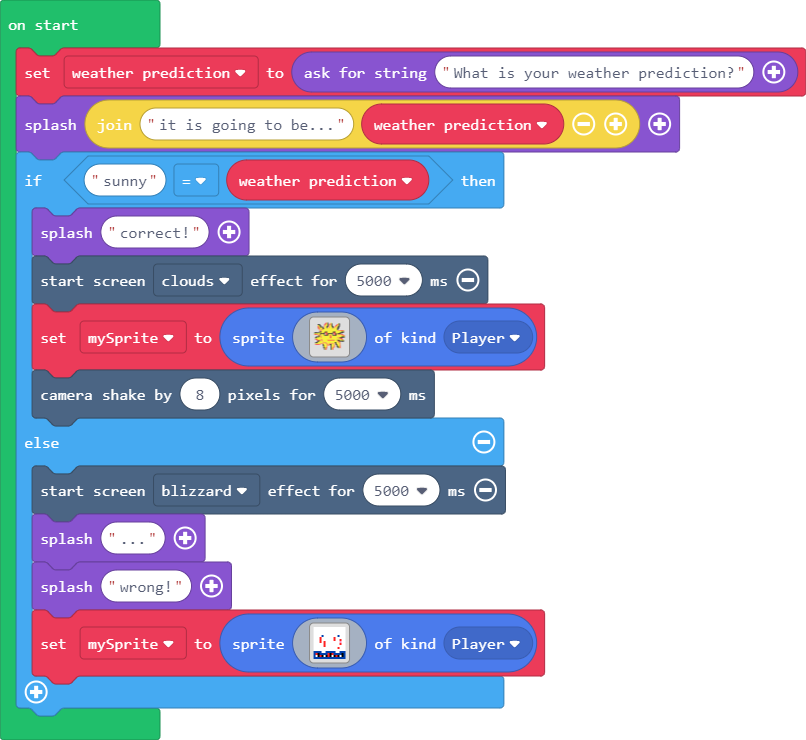
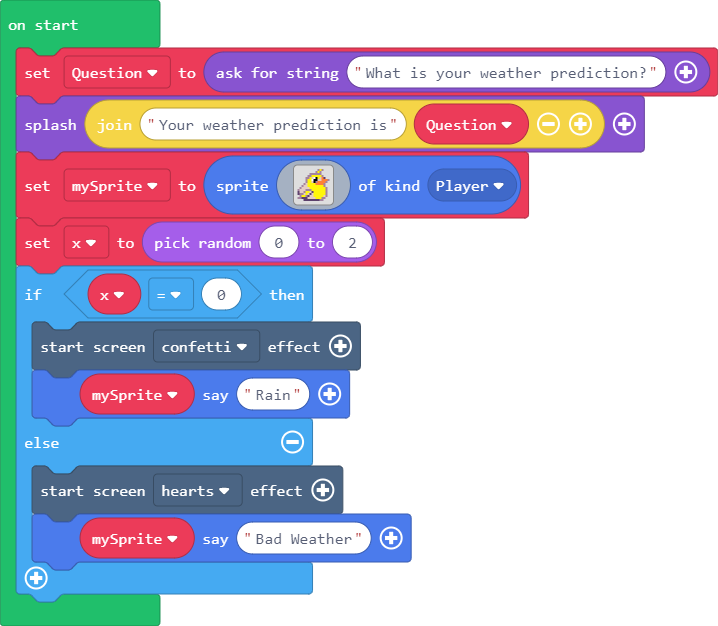
Update main.blocks, main.ts

diff --git a/main.ts b/main.ts
@@ -1,71 +1,28 @@
-let mySprite: Sprite = null
-let weather_prediction = game.askForString("What is your weather prediction?")
-game.splash("it is going to be..." + weather_prediction)
-if ("sunny" == weather_prediction) {
-    game.splash("correct!")
-    effects.clouds.startScreenEffect(5000)
-    mySprite = sprites.create(img`
-. . . . . . . . . . . . . . . . . . . . . . . . . . . . . . . . . . . . . . . 
-. . . . . . . . . . . . . . . . . . . . . . . . . . . . . . . . . . . . . . . 
-. . . . . . . . . . . . . . . 2 5 f . . . 5 . . . . . . . . . . . . . . . . . 
-. . . . . . . . . . . . . . 2 2 5 f . . 2 5 f . . . . . . . 5 f . . . . . . . 
-. . . . . f f f . . . . . 2 2 5 5 f . 2 2 5 f . . . . . 2 2 5 f . . . . . . . 
-. . . . . 5 5 f f . . . . 2 5 5 5 f . 2 5 5 f . . . . 2 2 5 5 f . . . . . . . 
-. . . . . 2 5 5 f . . . . 4 5 5 f f . 4 5 5 f f . . 4 2 5 5 f f . . . . . . . 
-. . . . . 2 2 5 f f f f . 4 5 5 f . 4 4 5 5 5 f . 4 4 5 5 5 f . . . . . . . . 
-. . . . . 2 2 5 5 5 5 f . 4 5 5 f . 4 5 5 5 5 f . 4 5 5 5 f f . . . . . . . . 
-. . . . . . 2 2 5 5 4 f f 5 5 5 5 5 5 5 5 5 5 5 5 5 5 5 5 f . . . . . . . . . 
-. . . . . . . 4 5 4 4 5 5 5 5 5 5 5 5 5 5 5 5 5 5 5 5 5 5 f . . . . . . . . . 
-. . . . . . . 4 4 4 5 5 5 5 5 5 5 5 5 5 5 5 5 5 5 5 5 5 5 4 4 4 4 2 2 2 2 . . 
-. . . . . . . . 4 4 5 5 5 5 5 5 5 5 5 5 5 5 5 5 5 5 5 5 5 5 5 5 5 5 5 5 5 . . 
-. . . . . . . f f f 5 5 5 5 f f f 5 5 5 5 5 5 5 f f f 5 5 5 5 5 5 5 f f f . . 
-. f f f f f f 5 5 5 5 5 5 f 4 2 2 5 5 5 5 5 5 f 4 2 2 5 5 5 5 5 f f f . . . . 
-. 5 5 5 5 5 5 5 f f f f f f 1 2 2 f f f f f f f 1 2 2 f 5 f f f f . . . . . . 
-. 2 2 2 4 4 5 5 f 5 5 5 5 f 1 2 2 f 5 5 5 5 5 f 1 2 2 f 5 4 4 4 4 4 2 2 . . . 
-. . . . . 4 4 4 4 5 5 5 5 f f f f f 5 5 2 5 5 f f f f f 5 5 5 5 5 5 5 2 2 2 . 
-. . . . . . f f 4 4 5 5 5 5 5 5 5 5 5 5 2 2 5 5 5 5 5 5 5 5 5 5 5 5 5 5 5 5 . 
-. . . f f f f 5 5 4 5 5 5 5 5 5 5 5 5 5 5 2 5 5 5 5 5 5 5 5 5 5 5 5 f f f f . 
-. . f f 5 5 5 5 5 4 5 5 5 5 5 5 5 5 5 5 2 2 5 5 5 5 5 5 5 4 4 4 f f f . . . . 
-. . 5 5 5 5 5 5 5 5 5 5 5 5 5 5 5 5 5 5 5 5 5 5 5 5 5 5 5 5 5 4 4 2 2 . . . . 
-. . 2 2 2 5 5 5 5 4 4 5 5 5 5 5 5 5 5 5 5 5 5 5 5 5 5 5 5 5 5 5 5 5 2 2 . . . 
-. . . . 2 2 4 4 4 4 4 5 5 5 5 5 5 2 2 2 2 2 2 2 2 2 5 5 5 f f f 5 5 5 5 5 . . 
-. . . . . f f f 5 5 4 4 5 5 5 5 5 5 5 5 5 5 5 5 5 5 5 5 5 4 4 f f f f f f . . 
-. . . . f f 5 5 5 5 5 5 5 5 5 5 5 5 5 5 5 5 5 5 5 5 5 5 5 5 4 4 . . . . . . . 
-. . f f f 5 5 5 5 5 5 4 4 4 4 4 5 5 5 5 5 5 5 5 5 5 f f 5 5 5 4 4 . . . . . . 
-. . 5 5 5 5 5 5 4 4 4 4 5 5 5 4 4 5 5 4 4 4 4 4 5 4 . f 5 5 5 5 4 . . . . . . 
-. . 2 2 2 2 2 4 4 . . f 5 5 5 5 4 4 4 4 f f 5 5 5 4 . f f 5 5 5 4 . . . . . . 
-. . . . . . . . . . . f f 5 5 5 4 4 4 4 . f 5 5 5 4 . . f 5 5 5 4 . . . . . . 
-. . . . . . . . . . . . f 5 5 5 4 . . . . f 5 5 5 4 . . f f 5 5 2 . . . . . . 
-. . . . . . . . . . . . f 5 5 5 4 . . . . f 5 5 4 4 . . . f f 5 2 . . . . . . 
-. . . . . . . . . . . . f f 5 2 4 . . . . f 5 2 4 . . . . . f 5 2 . . . . . . 
-. . . . . . . . . . . . . f 5 2 . . . . . f 5 2 . . . . . . . . . . . . . . . 
-. . . . . . . . . . . . . f 5 2 . . . . . f 5 2 . . . . . . . . . . . . . . . 
-. . . . . . . . . . . . . . . . . . . . . . . . . . . . . . . . . . . . . . . 
-. . . . . . . . . . . . . . . . . . . . . . . . . . . . . . . . . . . . . . . 
-. . . . . . . . . . . . . . . . . . . . . . . . . . . . . . . . . . . . . . . 
-. . . . . . . . . . . . . . . . . . . . . . . . . . . . . . . . . . . . . . . 
+let Question = game.askForString("What is your weather prediction?")
+game.splash("Your weather prediction is" + Question)
+let mySprite = sprites.create(img`
+. . . . . . . . . . b 5 b . . . 
+. . . . . . . . . b 5 b . . . . 
+. . . . . . b b b b b b . . . . 
+. . . . . b b 5 5 5 5 5 b . . . 
+. . . . b b 5 d 1 f 5 d 4 c . . 
+. . . . b 5 5 1 f f d d 4 4 4 b 
+. . . . b 5 5 d f b 4 4 4 4 b . 
+. . . b d 5 5 5 5 4 4 4 4 b . . 
+. . b d d 5 5 5 5 5 5 5 5 b . . 
+. b d d d d 5 5 5 5 5 5 5 5 b . 
+b d d d b b b 5 5 5 5 5 5 5 b . 
+c d d b 5 5 d c 5 5 5 5 5 5 b . 
+c b b d 5 d c d 5 5 5 5 5 5 b . 
+. b 5 5 b c d d 5 5 5 5 5 d b . 
+b b c c c d d d d 5 5 5 b b . . 
+. . . c c c c c c c c b b . . . 
 `, SpriteKind.Player)
-    scene.cameraShake(8, 5000)
+let x = Math.randomRange(0, 2)
+if (x == 0) {
+    effects.confetti.startScreenEffect()
+    mySprite.say("Rain")
 } else {
-    effects.blizzard.startScreenEffect(5000)
-    game.splash("...")
-    game.splash("wrong!")
-    mySprite = sprites.create(img`
-1 1 1 1 1 1 1 1 1 1 1 1 1 1 1 1 
-1 1 1 1 1 1 1 1 1 1 1 1 1 1 1 1 
-1 1 1 1 1 1 1 1 1 1 1 1 1 1 1 1 
-1 1 1 1 1 1 1 1 1 1 1 1 1 1 1 1 
-1 1 1 1 8 1 1 1 1 1 1 1 8 1 1 1 
-1 1 1 2 1 1 1 1 1 1 2 1 1 1 1 1 
-1 1 1 2 1 1 1 1 1 1 2 1 1 2 1 1 
-1 1 1 2 1 2 1 1 1 1 1 1 1 3 1 1 
-1 1 1 1 1 2 1 1 1 1 1 1 1 2 1 1 
-1 1 1 1 1 2 1 1 1 1 1 1 1 1 1 1 
-1 1 1 1 1 1 1 1 1 1 1 1 2 1 1 1 
-1 1 1 1 1 1 1 1 1 1 1 1 1 1 1 1 
-8 8 8 8 1 1 8 8 8 8 8 1 1 8 8 8 
-8 2 f 8 8 8 8 2 f 2 8 8 8 8 f 8 
-8 1 f 2 f 1 f 2 f 1 f 2 f 1 f 8 
-8 8 8 8 8 8 8 8 8 8 8 8 8 8 8 8 
-`, SpriteKind.Player)
+    effects.hearts.startScreenEffect()
+    mySprite.say("Bad Weather")
 }
